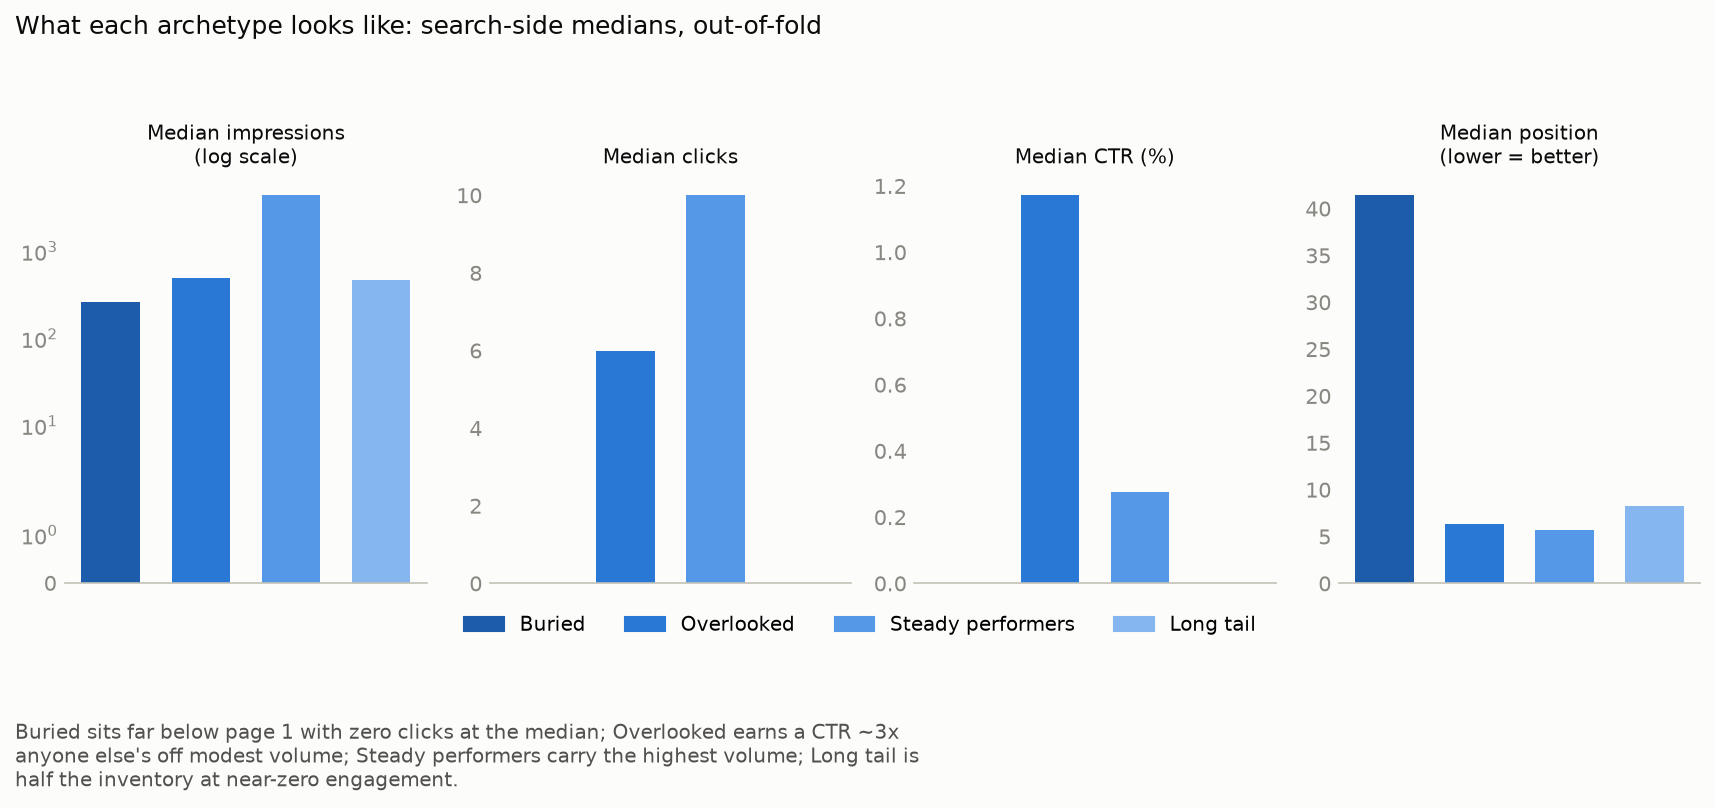
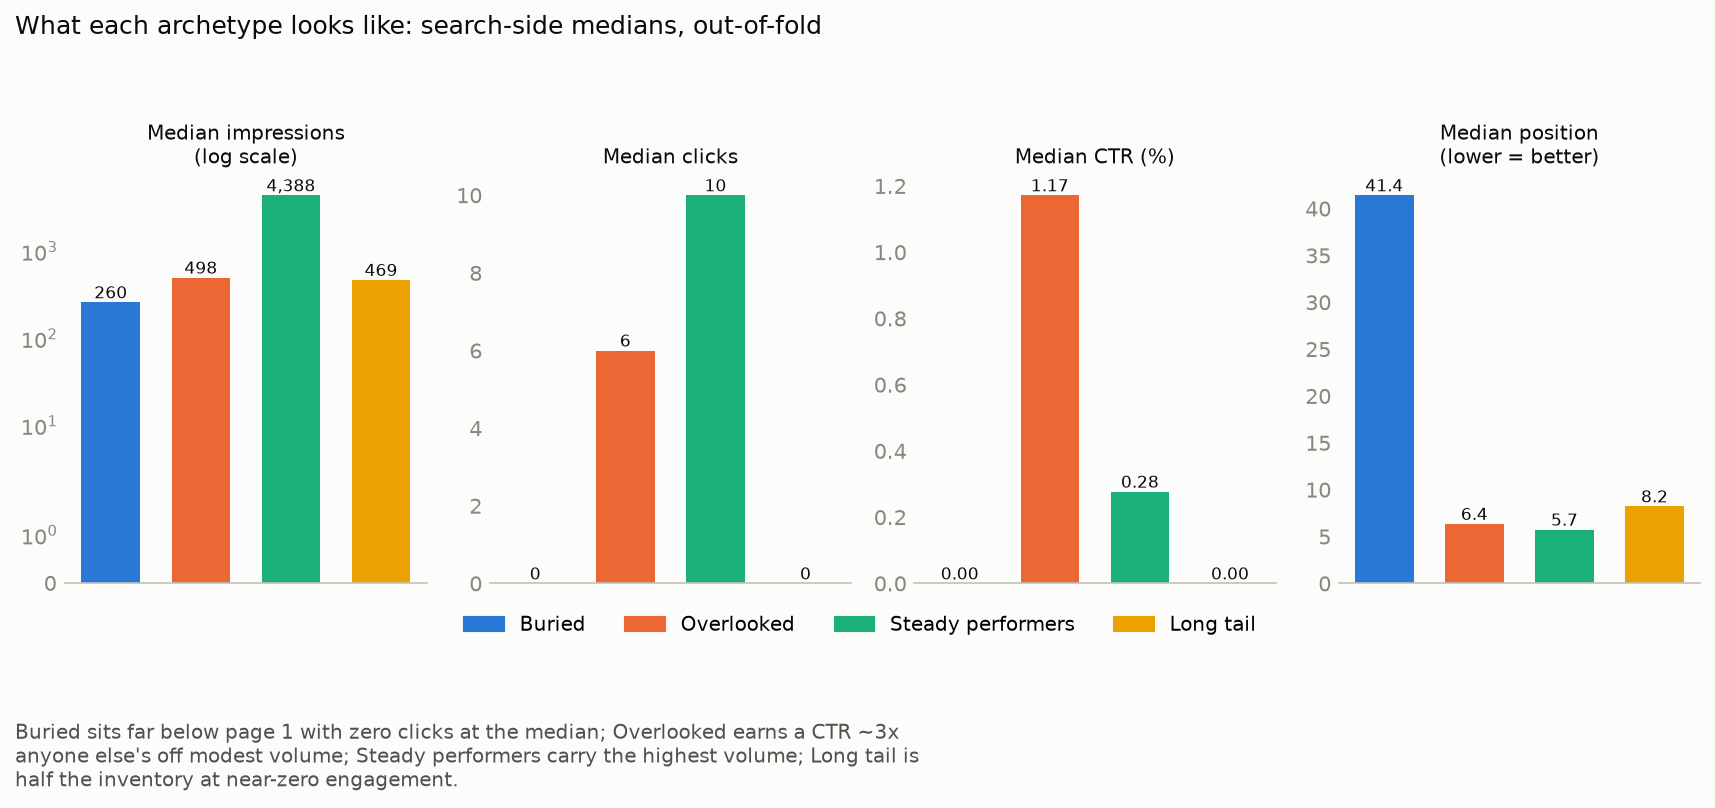
Fix archetype color encoding, add social-preview image
archetype_profile.png used a single-hue light->dark ramp to encode
which archetype each bar was — a sequential/magnitude palette applied
to a nominal categorical variable, with no direct bar labels as a
backstop. Replaced with a validated 4-color categorical palette
(blue/orange/aqua/yellow, CVD-checked via the dataviz skill's
validator) plus per-bar value labels. Other five figures already use
only 2 well-separated colors or have direct text labels, so left
those as-is.

Also adds og:image/twitter:image (the O/E forest plot, already in the
repo) so shared links get a preview thumbnail — using FlyRank's own
branding there would have misrepresented this as an official FlyRank
page rather than a personal capstone.

diff --git a/docs/index.html b/docs/index.html
@@ -2,6 +2,10 @@
 <meta name="description" content="An SEO content-refresh rule looked like it beat the base rate by 14% — until CTR was controlled for. What survived controlling for it, and the one archetype worth acting on.">
 <meta property="og:title" content="What Actually Works on Underperforming Search Pages? A Null Result, Honestly Reported">
 <meta property="og:description" content="Unsupervised content archetypes vs. a transparent CTR rule, evaluated on the same split. The rule's apparent lift turned out to be regression to the mean.">
+<meta property="og:image" content="https://jerovernay.github.io/FlyRank-Internship/figures/oe_forest.png">
+<meta property="og:image:alt" content="Forest plot of O/E improve-rate ratios with 95% confidence intervals for the rule and four content archetypes, against a chance line at 1.0">
+<meta name="twitter:card" content="summary_large_image">
+<meta name="twitter:image" content="https://jerovernay.github.io/FlyRank-Internship/figures/oe_forest.png">
 <meta name="viewport" content="width=device-width, initial-scale=1">
 
 <style>
